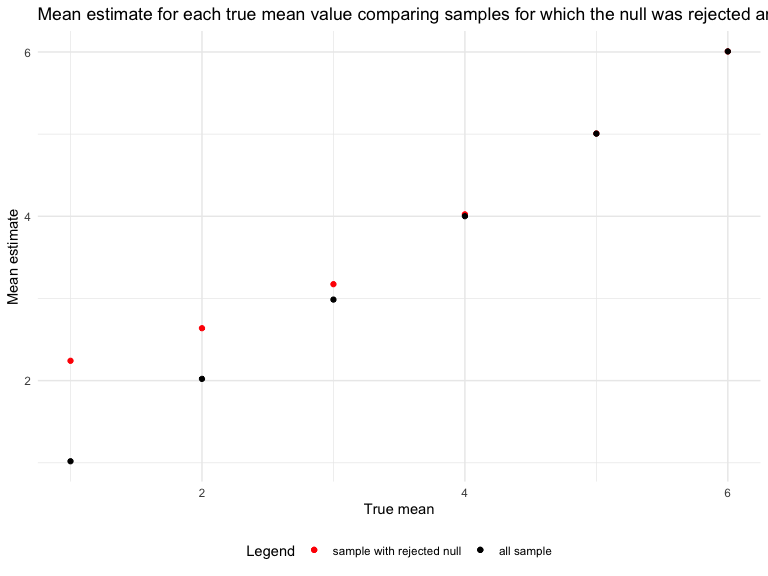
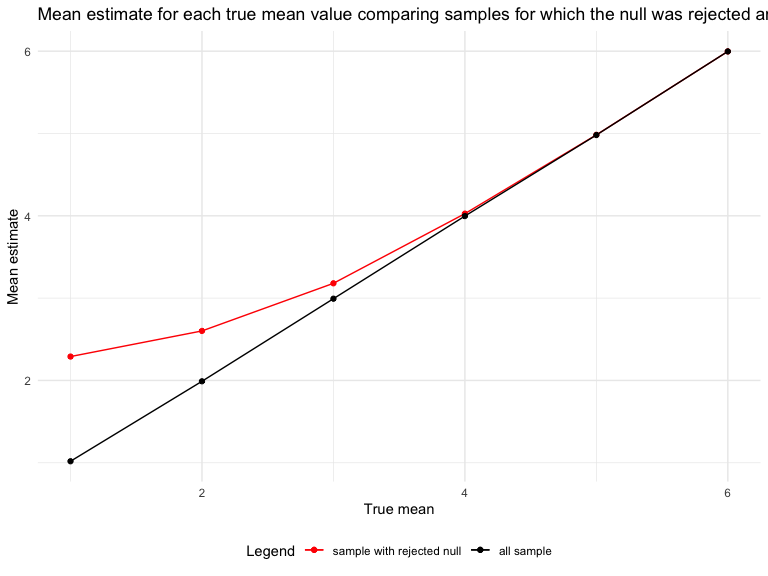
Answered all written questions

diff --git a/p8105_hw5_ms6360.md b/p8105_hw5_ms6360.md
@@ -81,6 +81,10 @@ homicide_data_p2 =
   )
 ```
 
+This dataset was cleaned using `group_by()` and summarized using
+`count()`. After summarizing the counts, the total and unsolved cases
+were calculated using `pivot_wider()` and `mutate()`.
+
 ``` r
 prop.test(
   homicide_data_p2 %>% filter(city_state == "Baltimore,MD") %>% pull(unsolved),
@@ -158,18 +162,18 @@ expand_grid(
 ```
 
     ## # A tibble: 5,000 × 4
-    ##    means iteration estimate  p.value
-    ##    <dbl>     <int>    <dbl>    <dbl>
-    ##  1     0         1    1.12  0.286   
-    ##  2     0         2   -2.71  0.000470
-    ##  3     0         3   -0.638 0.539   
-    ##  4     0         4   -1.82  0.0313  
-    ##  5     0         5    0.632 0.606   
-    ##  6     0         6    0.949 0.292   
-    ##  7     0         7    1.36  0.128   
-    ##  8     0         8    1.03  0.323   
-    ##  9     0         9    1.32  0.0738  
-    ## 10     0        10    0.757 0.282   
+    ##    means iteration estimate p.value
+    ##    <dbl>     <int>    <dbl>   <dbl>
+    ##  1     0         1   -0.482  0.598 
+    ##  2     0         2    0.247  0.834 
+    ##  3     0         3   -0.225  0.828 
+    ##  4     0         4    0.260  0.796 
+    ##  5     0         5   -1.15   0.244 
+    ##  6     0         6    0.250  0.804 
+    ##  7     0         7   -1.07   0.263 
+    ##  8     0         8    0.762  0.228 
+    ##  9     0         9   -2.07   0.0304
+    ## 10     0        10    0.846  0.299 
     ## # … with 4,990 more rows
 
 3 - Simulating 5000 datasets when μ = 1, 2, 3, 4, 5, 6
@@ -198,6 +202,7 @@ power_plot =
   ) %>%
   ggplot(aes(x = means, y = proportion)) + 
     geom_point() + 
+  geom_line() +
   labs(
     title = "Power of t-test for each true mean value",
     x = "True mean",
@@ -212,6 +217,12 @@ power_plot
 ``` r
 ggsave("result/p3_power_plot.pdf", power_plot, width = 20, height = 10)
 ```
+
+With a true mean being small and close to 0, which is the null
+hypothesis (H0: mu = 0), the effect size is small, which we can expect
+the power to be small as well. As the true mean increases and gets
+further from 0, the effect size increases and power also increases. When
+the true mean is greater or equal to 4, the power is close to 1.
 
 5 - Creating mean estimate for every true mean value
 
@@ -237,7 +248,9 @@ reject_sample_estimate_plot =
   ) %>%
   ggplot(aes(x = means, y = estimate_mean, color = "sample with rejected null")) + 
     geom_point() + 
+  geom_line() +
   geom_point(data = estimate_plot, aes(color = "all sample")) +
+  geom_line(data = estimate_plot, aes(color = "all sample")) +
   scale_color_manual(
     name = "Legend",
     breaks = c("sample with rejected null", "all sample"),
@@ -256,3 +269,16 @@ reject_sample_estimate_plot
 ``` r
 ggsave("result/p3_estimate_plot.pdf", reject_sample_estimate_plot, width = 20, height = 10)
 ```
+
+Overall, when the true value of mu is small, the sample averages of mu
+across tests for which the null is rejected are larger than the true
+value of mu (overestimation). As the true value of mu increases, the
+sample averages of mu across tests for which the null is rejected
+approaches the true value of mu. For when the true value of mu larger
+than 4, the mean estimate is really close to the true value of mu.
+
+This is because we are testing the null hypothesis of mu=0. With mu
+being 1, the effect size is really small, so with small power, it is
+expected that there will be less mean estimates rejecting the mean and
+they deviate from 1 a lot more than if mu is 6, which would have a
+larger effect size.
